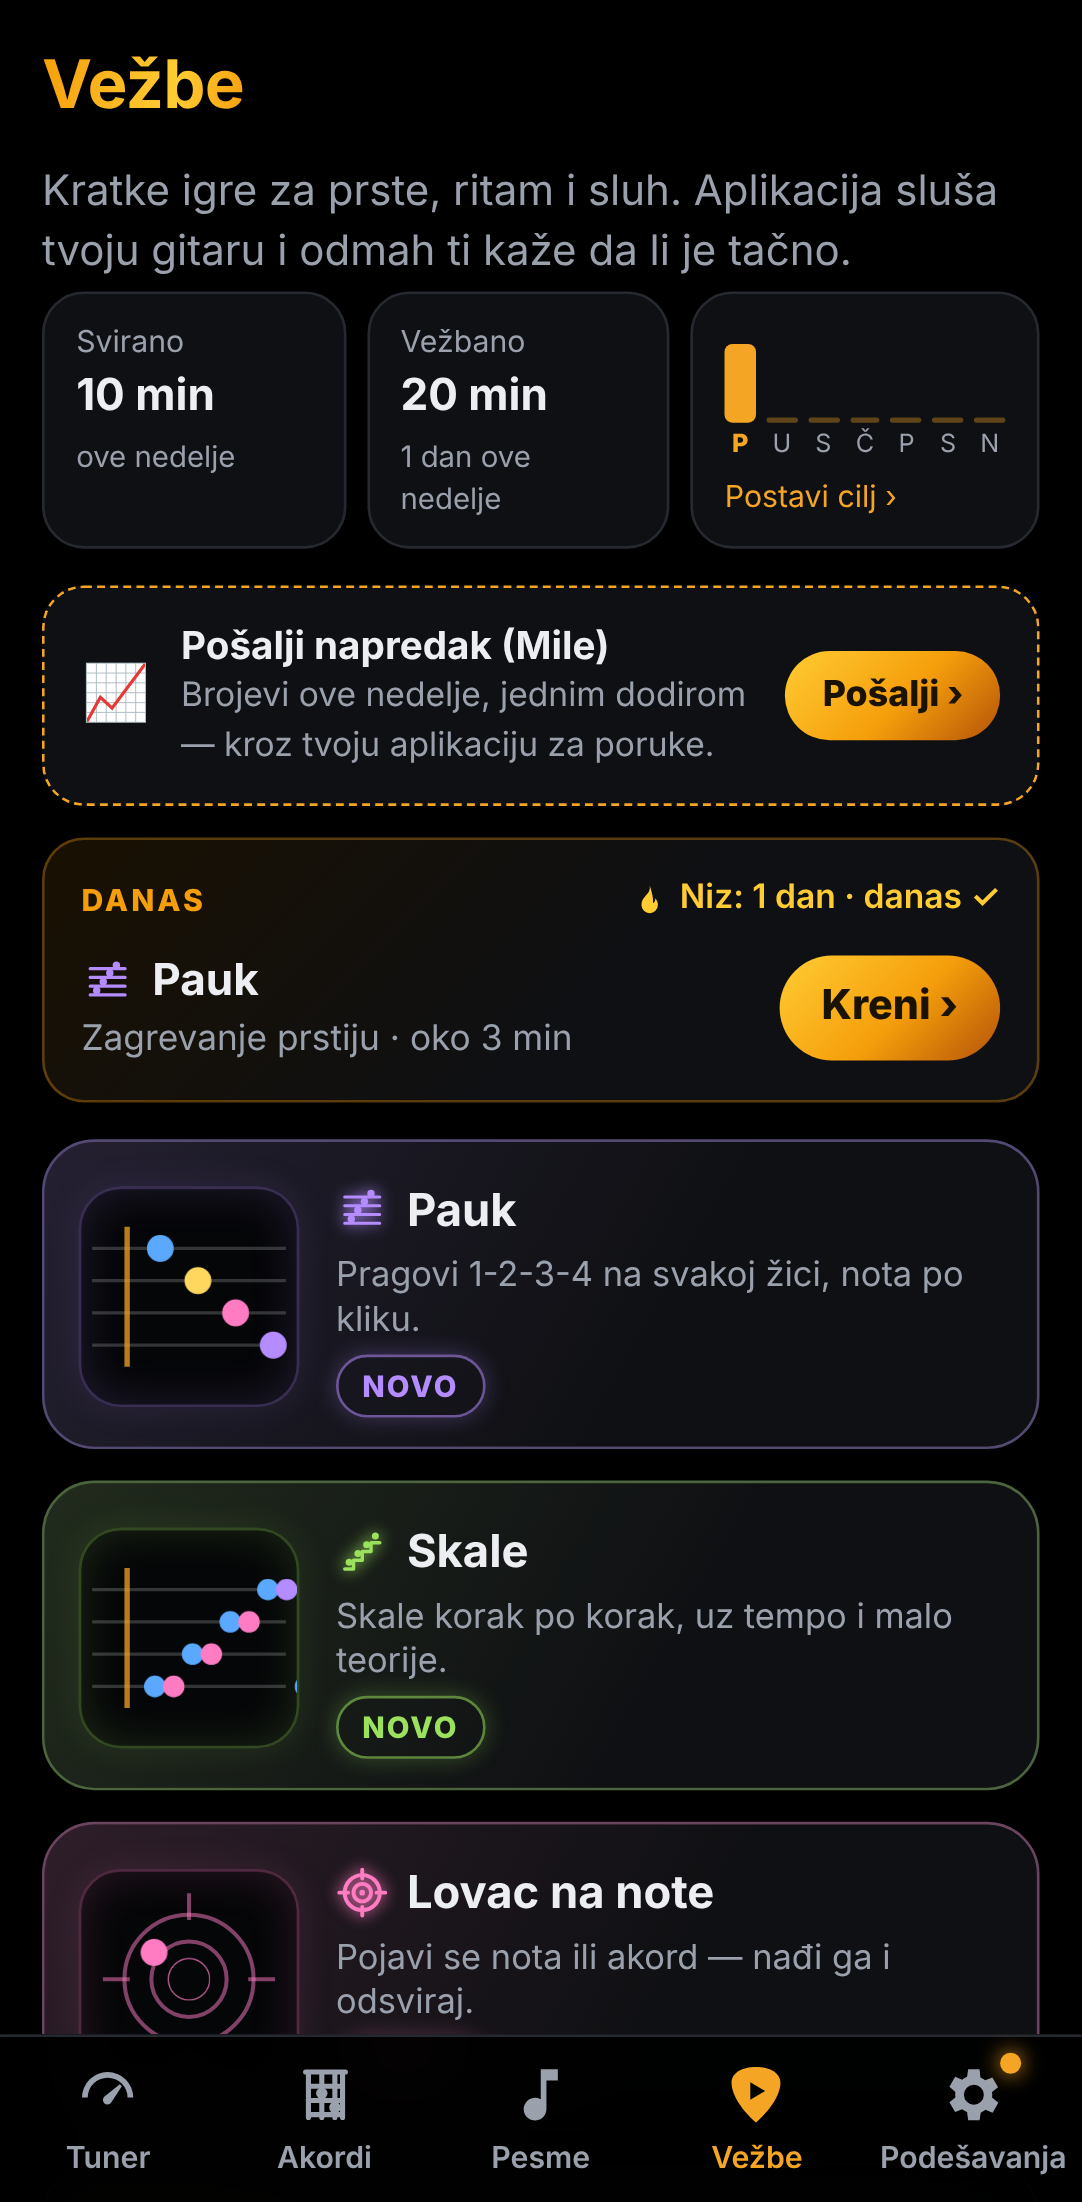
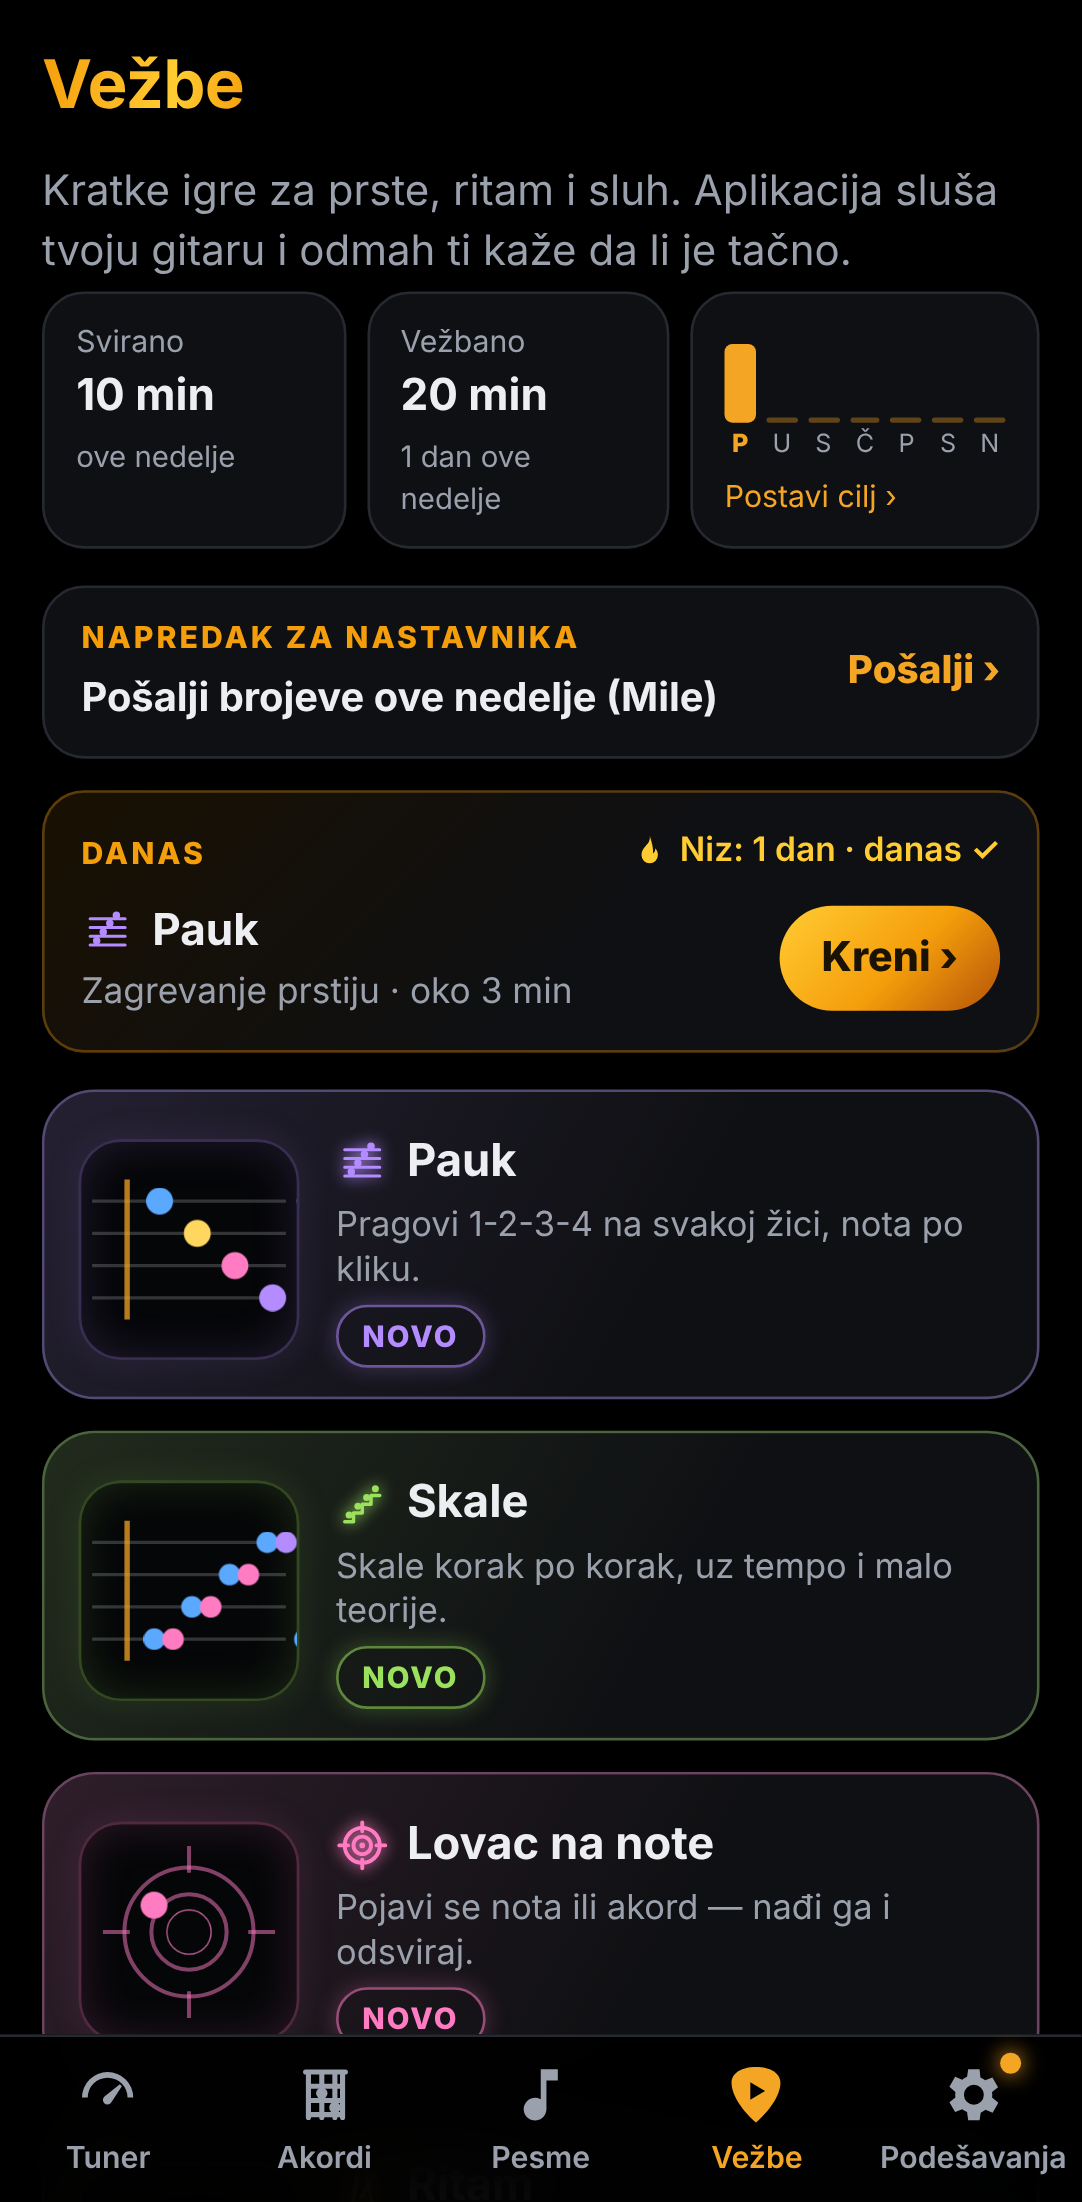
v1.84.1: lepši izgled — izbor načina deljenja napretka, Google greška i podsetnik u Vežbama
- „Kako da nastavnik vidi napredak?“: dve kartice (kao izbori u „Proveri pesmu“) — Porukom (bez Google naloga)
  i Automatski (Google nalog), sa kratkim objašnjenjem; „Dalje“ potvrđuje.
- „Google nalog nije povezan“: kraća poruka, napomena za decu, dugmad jedno ispod drugog (Pokušaj ponovo,
  Pošalji porukom, Otkaži kao običan tekst).
- Podsetnik u Vežbama: tanka kartica u stilu „Danas“ (mala oznaka, jedan red, „Pošalji ›“) umesto isprekidanog
  okvira sa velikim dugmetom.
- Nova verzija keša service worker-a. Tuner nije menjan.

Testovi: unit (181); t184, t180, t183 prilagođeni novom izboru; pun spisak (101 provera; skale-korak1 ponovljen
— poznata vremenska osetljivost, prošao).

Claude-Session: https://claude.ai/code/session_01NDUSKUN97fWP9dPBbYtahr

diff --git a/src/progress.js b/src/progress.js
@@ -105,17 +105,22 @@ export async function setProgressShare(on, { mode = '' } = {}) {
     if (id) { await tm.sendProgressLink(id); initProgress(); return true; }
     const now = await tm.getMyTeacher(); await tm.setMyTeacher({ ...now, prog: { on: false } });
     if (!err || err.code === 'cancelled') { if (!err) toast(t('prog.failed'), 'error'); return false; }
-    const v = await dialog({ title: t('prog.gFailTitle'), html: true, className: 'tch-dlg', body: `<p>${esc(err.code === 'stuck' ? t('drive.e.stuck') : t('prog.gFailBody'))}</p><p class="small muted">${esc(t('prog.gFailKids'))}</p>`,
-      buttons: [{ label: t('common.cancel'), value: null }, { label: t('prog.gFailMsg'), value: 'msg' }, { label: t('prog.gFailRetry'), value: 'retry', kind: 'primary' }] });
+    const v = await dialog({ title: t('prog.gFailTitle'), html: true, className: 'tch-dlg dlg-stack', body: `<p>${esc(err.code === 'stuck' ? t('drive.e.stuck') : t('prog.gFailBody'))}</p><p class="tch-lock">${esc(t('prog.gFailKids'))}</p>`,
+      buttons: [{ label: t('prog.gFailRetry'), value: 'retry', kind: 'primary' }, { label: t('prog.gFailMsg'), value: 'msg' }, { label: t('common.cancel'), value: null, kind: 'ghost' }] });
     if (v === 'msg') return setProgressShare(true, { mode: 'msg' });
     if (v !== 'retry') return false;
   }
 }
 async function chooseMode(tn) {
-  const { dialog } = await import('./ui.js');
+  const { dialog, esc } = await import('./ui.js');
   let google = false; try { const d = await import('./drive.js'); const st = d.driveState(); google = !!(st.connected || st.email); } catch {}
-  return dialog({ title: t('prog.modeTitle', { t: tn }), html: true, className: 'tch-dlg', body: `<p class="small muted">${t('prog.modeBody')}</p>`,
-    buttons: [{ label: t('common.cancel'), value: null }, { label: t('prog.modeMsg'), value: 'msg', kind: google ? '' : 'primary' }, { label: t('prog.modeDrive'), value: 'drive', kind: google ? 'primary' : '' }] });
+  let pick = google ? 'drive' : 'msg';
+  const opt = (k, ic) => `<button type="button" class="tch-opt${k === pick ? ' on' : ''}" data-o="${k}" role="radio" aria-checked="${k === pick}"><span class="tch-opt-ic">${ic}</span><span><b>${esc(t(k === 'msg' ? 'prog.modeMsg' : 'prog.modeDrive'))}</b><small>${esc(t(k === 'msg' ? 'prog.modeMsgSub' : 'prog.modeDriveSub', { t: tn }))}</small></span></button>`;
+  const p = dialog({ title: t('prog.modeTitle', { t: tn }), html: true, className: 'tch-dlg', body: `<p class="small muted">${esc(t('prog.modeBody'))}</p><div class="tch-opts" role="radiogroup">${opt('msg', '💬')}${opt('drive', '☁')}</div>`,
+    buttons: [{ label: t('common.cancel'), value: null }, { label: t('prog.modeOk'), value: 'ok', kind: 'primary' }] });
+  const box = [...document.querySelectorAll('.modal-backdrop')].pop();
+  box?.querySelector('.tch-opts')?.addEventListener('click', (e) => { const b = e.target.closest('[data-o]'); if (!b) return; pick = b.dataset.o; box.querySelectorAll('.tch-opt').forEach((x) => { x.classList.toggle('on', x === b); x.setAttribute('aria-checked', String(x === b)); }); });
+  return (await p) === 'ok' ? pick : null;
 }
 
 /** Učenik („porukom“): brojevi ove nedelje u linku, kroz učenikovu aplikaciju za poruke. */

diff --git a/src/styles.css b/src/styles.css
@@ -2327,8 +2327,12 @@ a.ds-it { text-decoration: none; }
 .pl-weeks.big .pl-addwk { min-height: 64px; align-self: start; }
 /* v1.84: napredak porukom */
 .tch-pmsg { display: flex; gap: 12px; align-items: center; flex-wrap: wrap; margin: 10px 0 4px; }
-.pl-nudge { display: flex; width: 100%; gap: 12px; align-items: center; text-align: left; padding: 12px 14px; margin: 0 0 12px; border-radius: 16px; border: 1px dashed var(--accent); background: var(--surface); color: var(--text); cursor: pointer; font: inherit; }
-.pl-nudge > span:first-child { font-size: 1.3rem; }
-.pl-nudge > span:nth-child(2) { flex: 1; min-width: 0; }
-.pl-nudge b { display: block; font-size: .92rem; } .pl-nudge small { display: block; color: var(--muted); font-size: .8rem; }
-.pl-nudge .pl-go { display: inline-flex; align-items: center; flex: none; }
+.pl-nudge { display: flex; width: 100%; gap: 12px; align-items: center; text-align: left; padding: 11px 14px; margin: 0 0 12px; border-radius: var(--radius, 18px); border: 1px solid var(--line); background: var(--surface); color: var(--text); cursor: pointer; font: inherit; }
+.pl-nudge:hover { border-color: rgba(245, 158, 11, .45); }
+.pl-nudge-t { flex: 1; min-width: 0; display: flex; flex-direction: column; gap: 3px; }
+.pl-nudge-t b { font-size: .95rem; font-weight: 700; }
+.pl-nudge-go { flex: none; color: var(--accent); font-weight: 800; font-size: .92rem; }
+/* dijalog sa dugmadima jedno ispod drugog (glavno prvo) */
+.dlg-stack .modal-actions { flex-direction: column; align-items: stretch; gap: 8px; }
+.dlg-stack .modal-actions .btn { width: 100%; flex: none; }
+.dlg-stack .modal-actions .btn.ghost { background: none; border-color: transparent; box-shadow: none; color: var(--muted); min-height: 38px; }

diff --git a/src/i18n-en.js b/src/i18n-en.js
@@ -617,6 +617,10 @@ export default {
   'prog.got': '{name} shares progress with you',
   'prog.head': 'Progress',
   'prog.headWeek': 'Progress · this week',
+  'prog.modeOk': "Next",
+  'prog.modeMsgSub': "You send the numbers whenever you like, in one tap. No sign-in — good for kids.",
+  'prog.modeDriveSub': "{t} sees updates without you sending anything. Needs your Google account.",
+  'prog.nudgeK': "Progress for your teacher",
   'prog.changeMode': "Change how",
   'prog.gFailTitle': "Google account not connected",
   'prog.gFailBody': "Google sign-in didn’t work.",
@@ -635,7 +639,7 @@ export default {
   'prog.sendNow': "Send progress ({t})",
   'prog.sentWhen': "sent {d}",
   'prog.sentToast': "Sent — {t} sees your progress",
-  'prog.nudge': "Send your progress ({t})",
+  'prog.nudge': "Send this week’s numbers ({t})",
   'prog.nudgeSub': "This week’s numbers, in one tap — through your messaging app.",
   'prog.nudgeBtn': "Send",
   'prog.olderMsg': "This is older progress — you already have a newer one.",

diff --git a/src/i18n.js b/src/i18n.js
@@ -630,6 +630,10 @@ const sr = {
   'prog.got': '{name} deli napredak sa tobom',
   'prog.head': 'Napredak',
   'prog.headWeek': 'Napredak · ova nedelja',
+  'prog.modeOk': "Dalje",
+  'prog.modeMsgSub': "Ti šalješ brojeve kad hoćeš, jednim dodirom. Bez prijave — dobro za decu.",
+  'prog.modeDriveSub': "{t} vidi novo sam, bez slanja. Treba tvoj Google nalog.",
+  'prog.nudgeK': "Napredak za nastavnika",
   'prog.changeMode': "Promeni način",
   'prog.gFailTitle': "Google nalog nije povezan",
   'prog.gFailBody': "Google prijava nije uspela.",
@@ -648,7 +652,7 @@ const sr = {
   'prog.sendNow': "Pošalji napredak ({t})",
   'prog.sentWhen': "poslato {d}",
   'prog.sentToast': "Poslato — {t} vidi tvoj napredak",
-  'prog.nudge': "Pošalji napredak ({t})",
+  'prog.nudge': "Pošalji brojeve ove nedelje ({t})",
   'prog.nudgeSub': "Brojevi ove nedelje, jednim dodirom — kroz tvoju aplikaciju za poruke.",
   'prog.nudgeBtn': "Pošalji",
   'prog.olderMsg': "Ovo je stariji napredak — već imaš noviji.",

diff --git a/src/planView.js b/src/planView.js
@@ -289,6 +289,6 @@ export async function drawNudge(el) {
   const P = await import('./progress.js');
   const n = await P.progNudge().catch(() => null);
   if (!n) { el.innerHTML = ''; return; }
-  el.innerHTML = `<button class="pl-nudge" id="plNudge"><span>📈</span><span><b>${esc(t('prog.nudge', { t: n.name }))}</b><small>${esc(t('prog.nudgeSub'))}</small></span><span class="pl-go">${t('prog.nudgeBtn')} ›</span></button>`;
+  el.innerHTML = `<button class="pl-nudge" id="plNudge"><span class="pl-nudge-t"><span class="pl-k">${esc(t('prog.nudgeK'))}</span><b>${esc(t('prog.nudge', { t: n.name }))}</b></span><span class="pl-nudge-go">${t('prog.nudgeBtn')} ›</span></button>`;
   el.querySelector('#plNudge').addEventListener('click', async () => { if (await P.sendProgressMsg().catch(() => false)) { toast(t('prog.sentToast', { t: n.name })); el.innerHTML = ''; } });
 }

diff --git a/sw.js b/sw.js
@@ -1,6 +1,6 @@
 // Rad bez interneta: cela aplikacija se čuva u kešu i služi iz njega (uvek ista, usklađena verzija).
 // Nova verzija = novi broj u CACHE (scripts/update-sw.mjs). Aplikacija tada prikaže „Osveži“.
-const CACHE = "gitara-v127";
+const CACHE = "gitara-v128";
 const SHELL = [
   "./",
   "index.html",

diff --git a/src/version.js b/src/version.js
@@ -1,1 +1,1 @@
-export const APP_VERSION = '1.84.0';
+export const APP_VERSION = '1.84.1';
